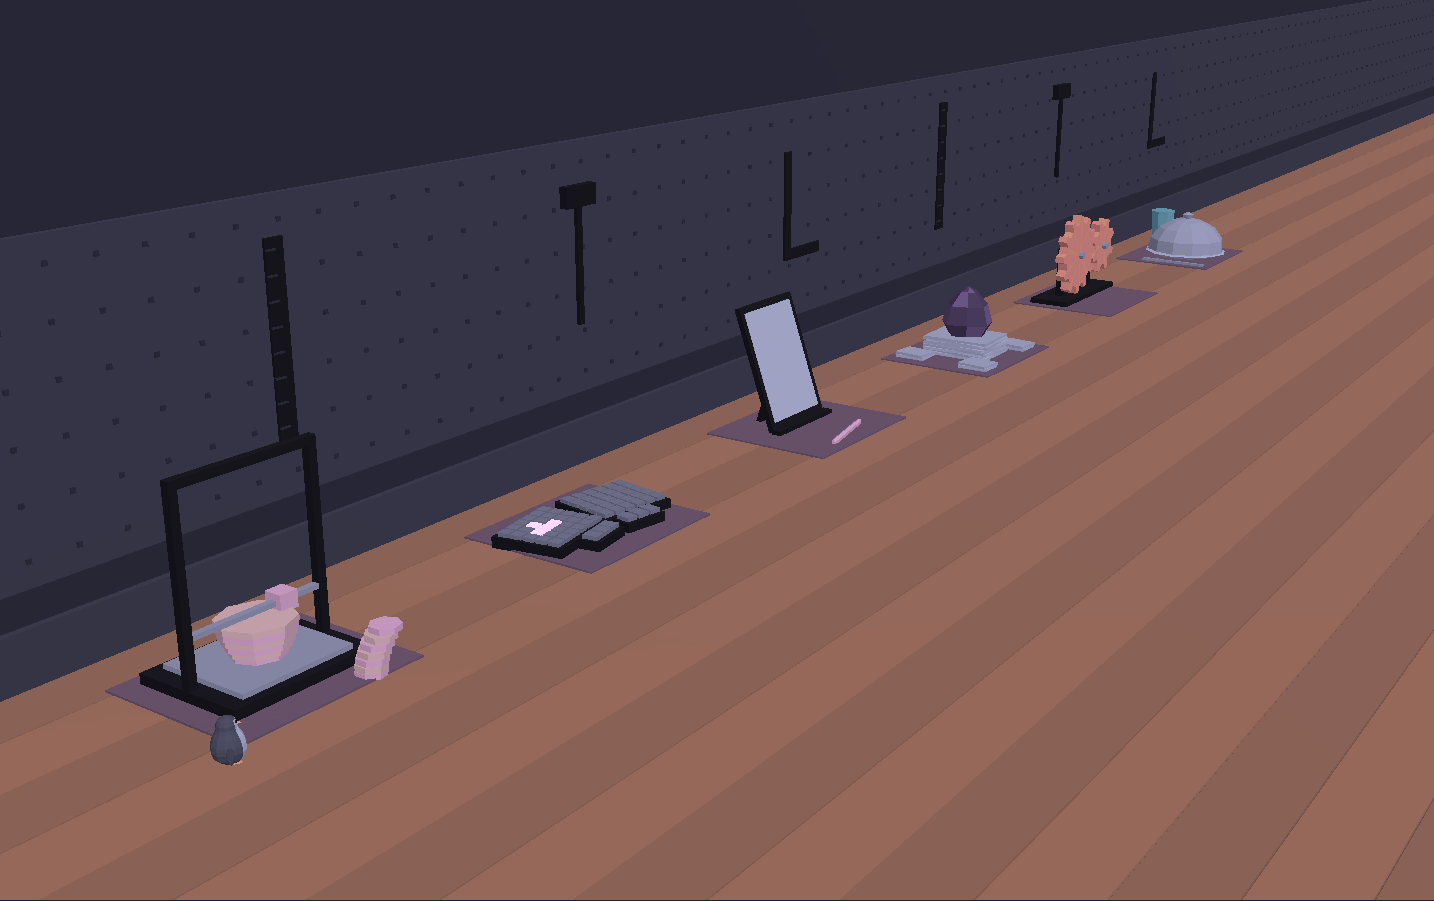
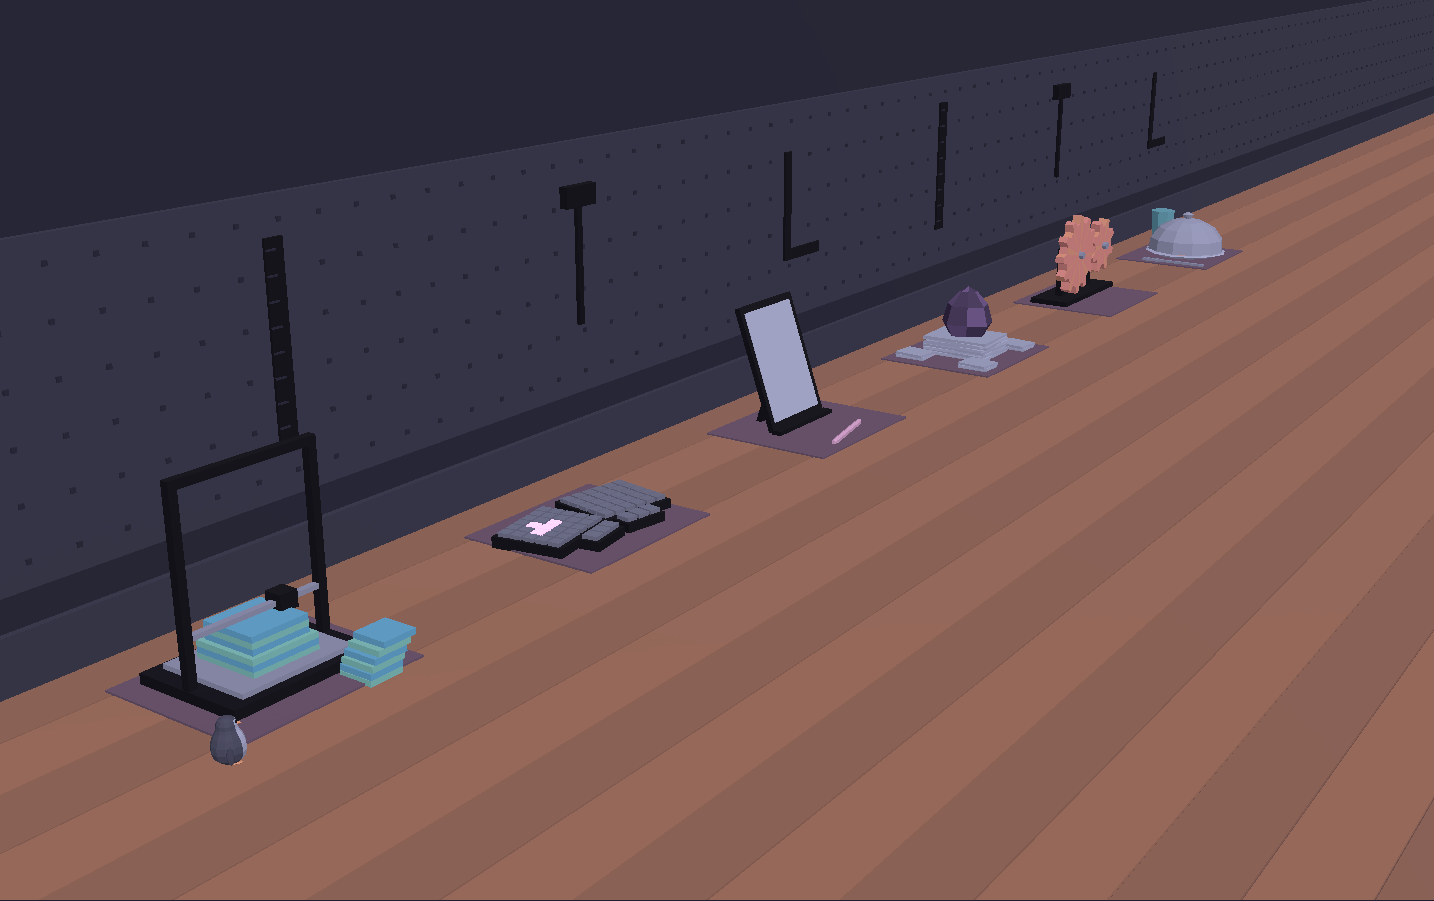
fix: print a square stepped pyramid on the Interessi bench (PORT-92)

Changed region(s): [[0.1227, 0.6526, 0.3068, 0.7769], [0.6444, 0.3108, 0.7057, 0.3729]]

diff --git a/src/scripts/three/interessi/objects.ts b/src/scripts/three/interessi/objects.ts
@@ -21,6 +21,8 @@ export interface BenchPalette {
   ink: Rgb;
   accent: Rgb;
   alt: Rgb;
+  print: Rgb;
+  printAlt: Rgb;
   key: Rgb;
   rust: Rgb;
   rustAlt: Rgb;
@@ -164,40 +166,30 @@ function buildPrinter(bench: Bench, x: number, p: BenchPalette): void {
   }
   m.box(x, 7.7, z, 6.36, 0.36, 0.36, p.frame);
   bench.gantry.box(x, -0.1, z, 5.7, 0.2, 0.3, p.metal);
-  bench.head.box(x, -0.32, z, 0.8, 0.7, 0.8, p.accent);
+  bench.head.box(x, -0.32, z, 0.8, 0.7, 0.8, p.frame);
   bench.head.box(x, -0.55, z, 0.24, 0.3, 0.24, p.ink);
+  // Il pezzo: una piramide a gradoni, squadrata, uno strato sull'altro.
   for (let i = 0; i < LAYERS; i += 1) {
-    const k = i / (LAYERS - 1);
-    const r = 1.05 + 0.45 * Math.sin(k * Math.PI * 1.6);
+    const r = 2.1 - 0.3 * Math.floor(i / 3);
     const y = BED_Y - 0.02 + i * LAYER;
-    bench.print.mesh.lathe(
-      [
-        [r, y],
-        [r, y + LAYER],
-      ] as readonly Ring[],
-      8,
-      i % 2 ? p.alt : p.accent,
-      {
-        x,
-        z,
-      },
-    );
+    const rings: readonly Ring[] = [
+      [r, y],
+      [r, y + LAYER],
+    ];
+    bench.print.mesh.lathe(rings, 4, i % 2 ? p.printAlt : p.print, { x, z, ry: Math.PI / 4 });
   }
   // Il pezzo storto: gli strati scivolano, succede.
-  for (let i = 0; i < 7; i += 1) {
-    const y = 0 + i * LAYER;
-    m.lathe(
-      [
-        [0.62, y],
-        [0.62, y + LAYER],
-      ],
-      7,
-      i % 2 ? p.alt : p.accent,
-      {
-        x: x + 2.1 + i * i * 0.022,
-        z: 2.1,
-      },
-    );
+  for (let i = 0; i < 6; i += 1) {
+    const y = i * LAYER;
+    const rings: readonly Ring[] = [
+      [1.1, y],
+      [1.1, y + LAYER],
+    ];
+    m.lathe(rings, 4, i % 2 ? p.printAlt : p.print, {
+      x: x + 2.1 + i * i * 0.03,
+      z: 2.1,
+      ry: Math.PI / 4,
+    });
   }
 }
 

diff --git a/src/scripts/three/scenes/interessi.ts b/src/scripts/three/scenes/interessi.ts
@@ -109,6 +109,8 @@ export function mount({
     ink: channels(tint(['--bg-deep', '--bg'])),
     accent: channels(accent),
     alt: channels(alt),
+    print: channels(tint(['--ctp-teal', '--text'])),
+    printAlt: channels(tint(['--ctp-sapphire', '--text'])),
     key: channels(key),
     rust: channels(peach.clone().lerp(red, 0.45)),
     rustAlt: channels(peach.clone().lerp(red, 0.15)),
